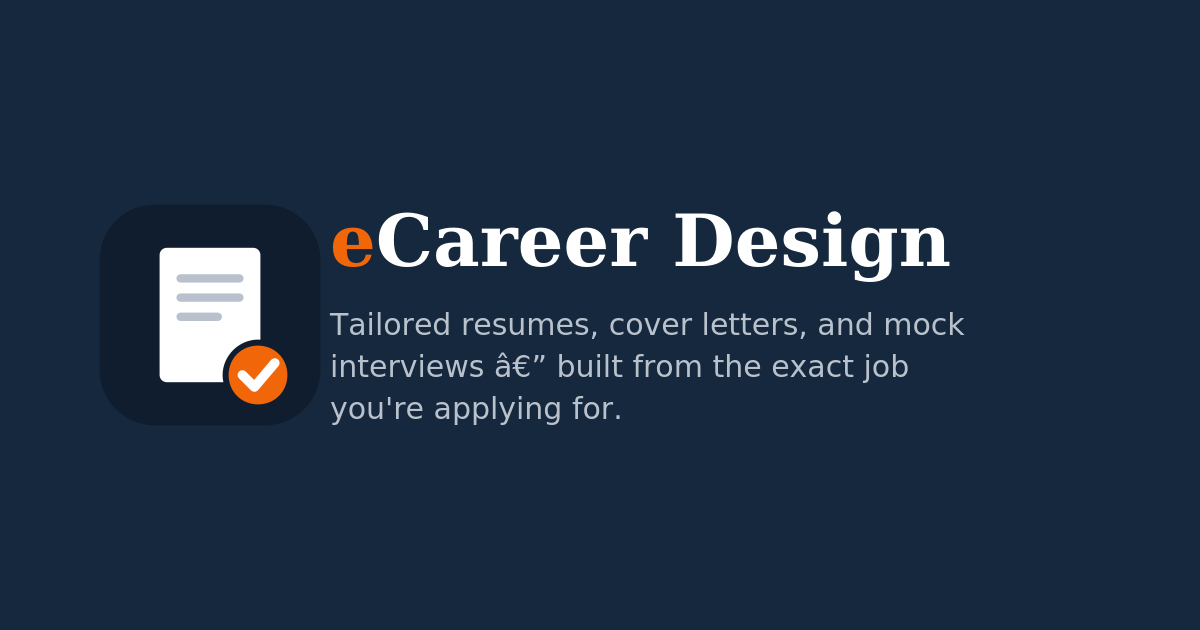
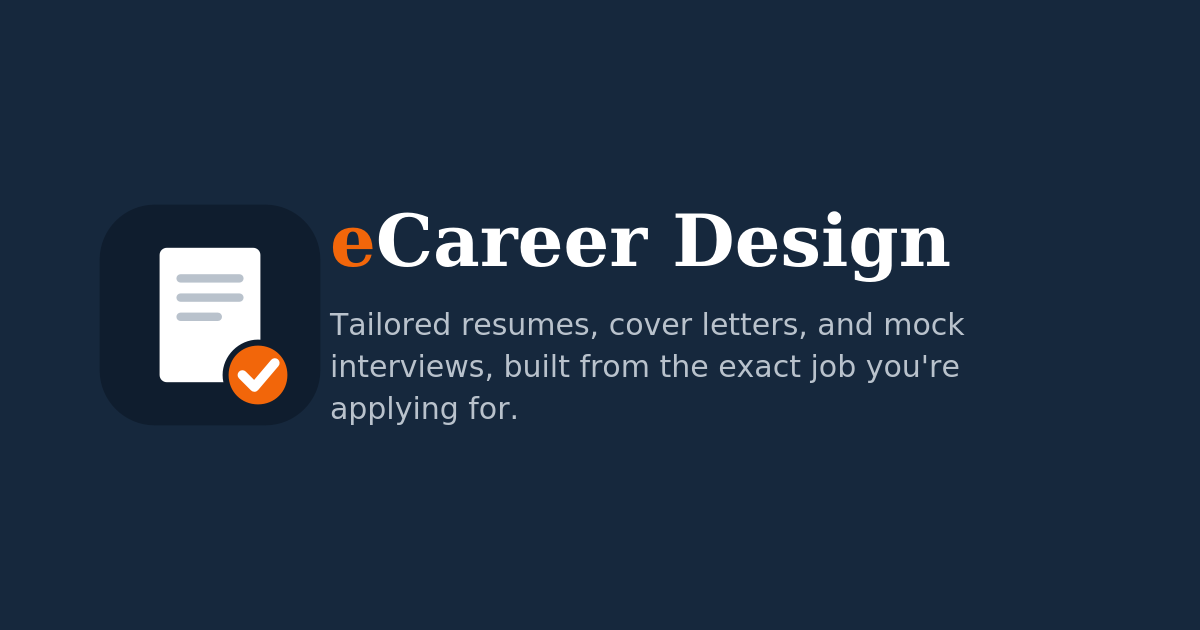
Fix OG image encoding bug and file size, lengthen SEO title

Changed region(s): [[0.4008, 0.5429, 0.8017, 0.6032], [0.2775, 0.6333, 0.5242, 0.6937]]

diff --git a/app/layout.js b/app/layout.js
@@ -3,11 +3,11 @@ import { SpeedInsights } from "@vercel/speed-insights/next";
 
 export const metadata = {
   metadataBase: new URL("https://ecareerdesign.net"),
-  title: "eCareer Design",
+  title: "eCareer Design: AI Resume Builder, Cover Letters & Interview Prep",
   description: "STAR-format response and resume builder for your next job application.",
   openGraph: {
     title: "eCareer Design",
-    description: "Tailored resumes, cover letters, and mock interviews — built from the exact job you're applying for.",
+    description: "Tailored resumes, cover letters, and mock interviews, built from the exact job you're applying for.",
     siteName: "eCareer Design",
     type: "website",
     url: "https://ecareerdesign.net",
@@ -15,7 +15,7 @@ export const metadata = {
   twitter: {
     card: "summary_large_image",
     title: "eCareer Design",
-    description: "Tailored resumes, cover letters, and mock interviews — built from the exact job you're applying for.",
+    description: "Tailored resumes, cover letters, and mock interviews, built from the exact job you're applying for.",
   },
 };
 